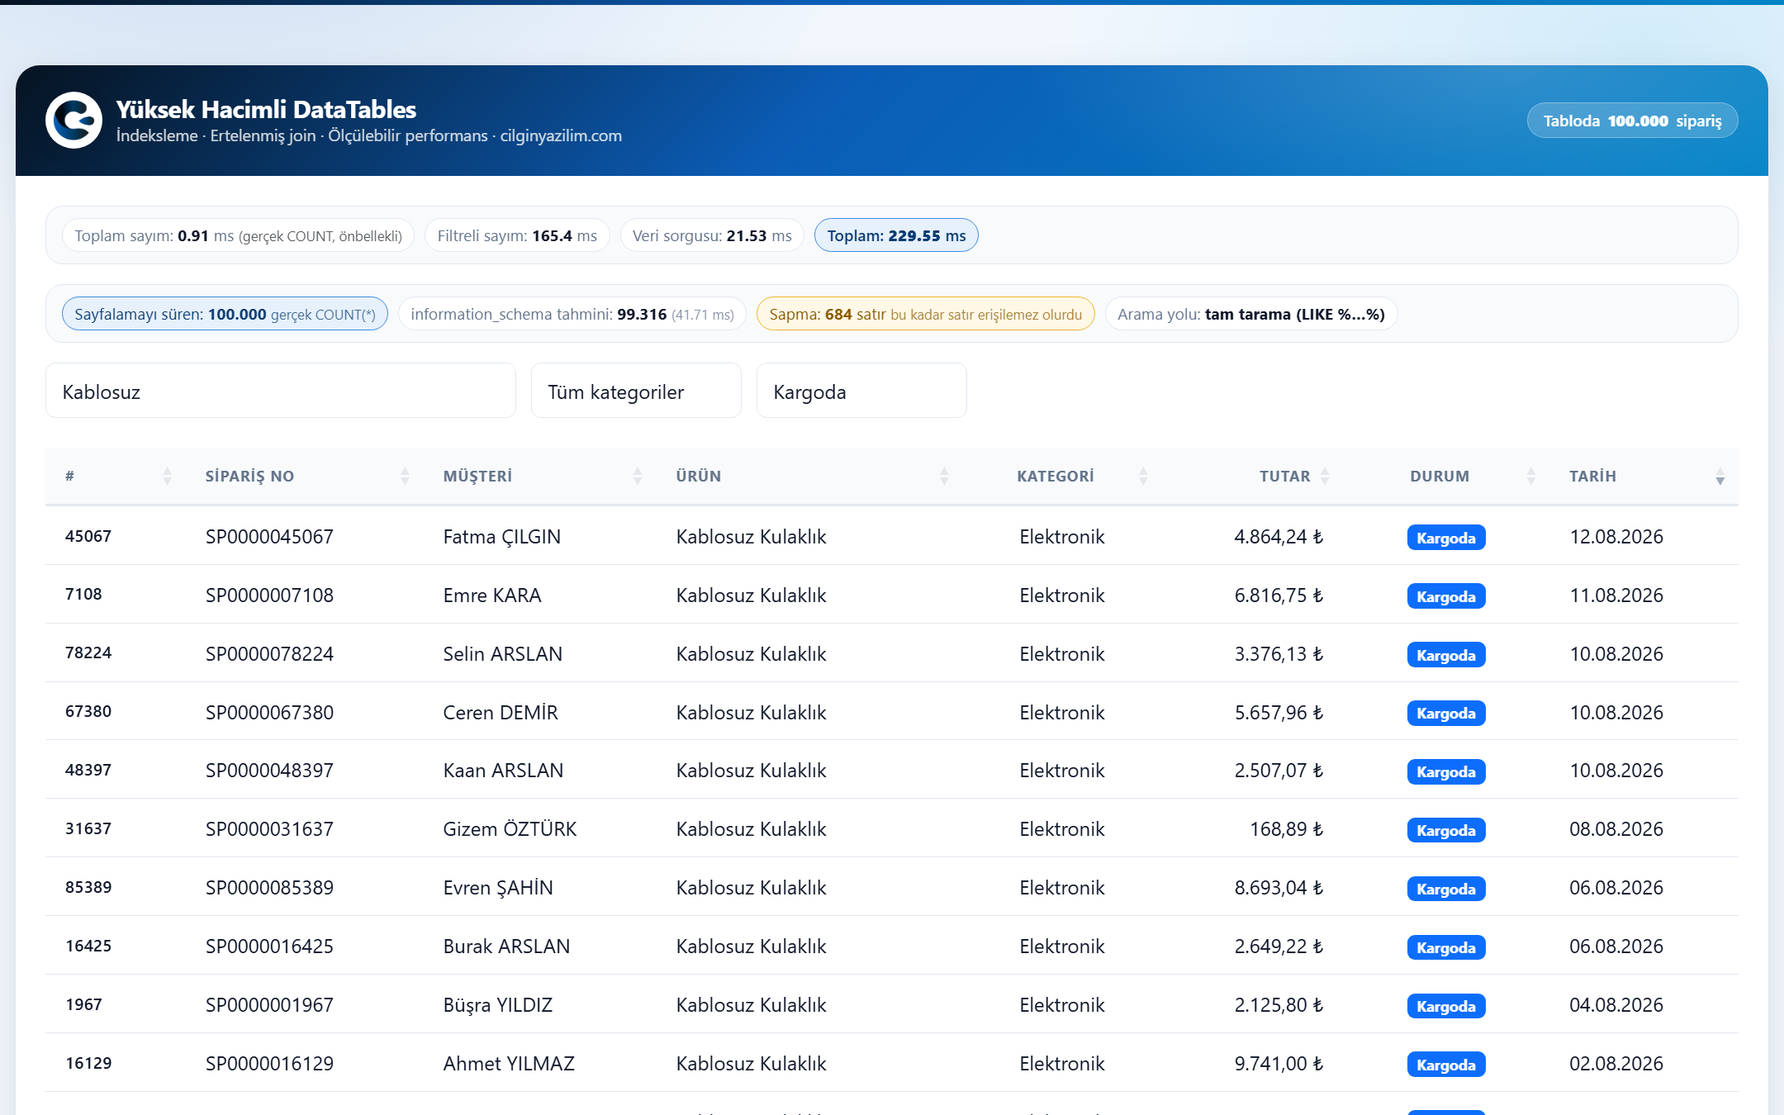
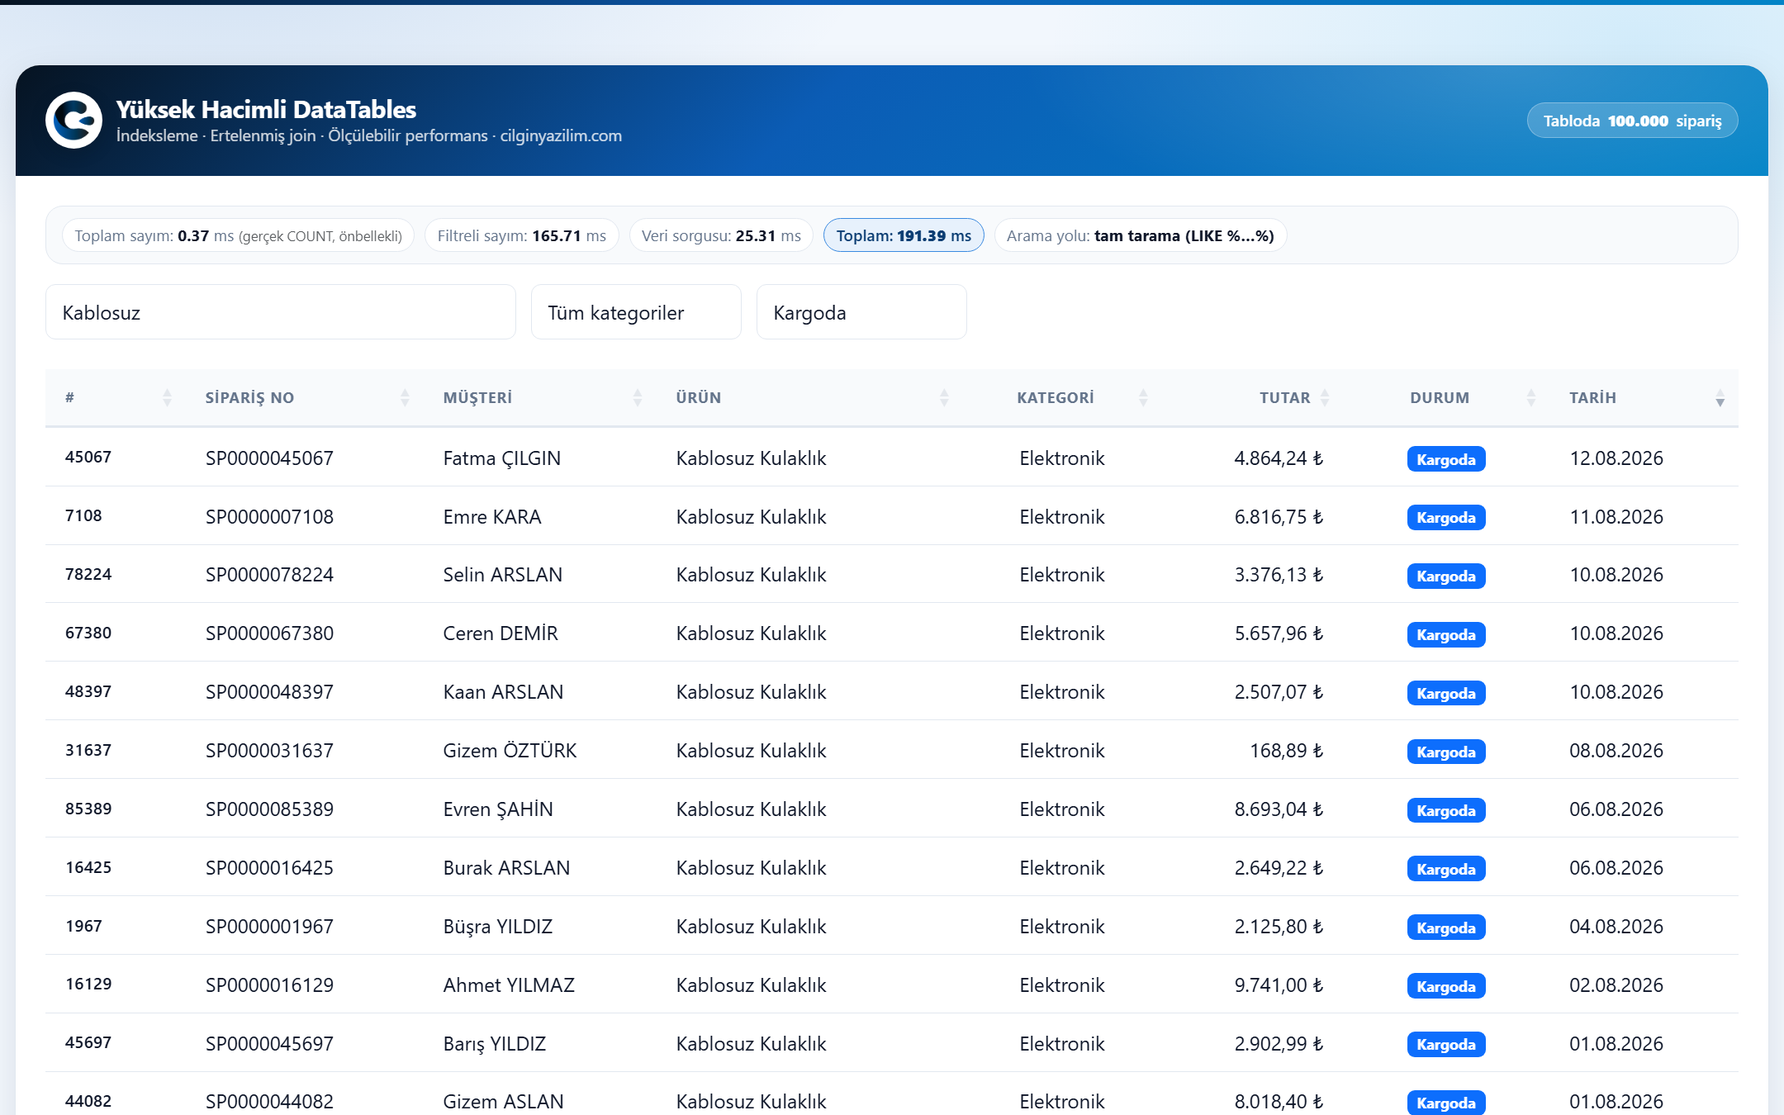
Karşılaştırma rozetini kaldır: her istekte hiçbir yerde okunmayan bir sayıyı yeniden çekmenin gerekçesi kalmamıştı
Önceki turda "sayfalamayı süren gerçek sayı" ile "information_schema
tahmini" arayüzde yan yana gösteriliyordu. Rozet kaldırılınca
estimate_total_rows() çağrısının da anlamı kalmadı: tahmin salt okunur
bir tabloda istekler arasında değişmiyor, yani her istekte yeniden
okumak (~0,8 ms) hiçbir yeni bilgi getirmiyordu.

- index.php: truth-bar bölümü ve $estimatedRows silindi.
- system/ajax.php: estimate_ms ölçümü, meta.estimated_total ve
  meta.estimate_drift kaldırıldı. Filtresiz sayfa artık ~1,5-2 ms
  (estimate sorgusu gitti).
- system/function.php: estimate_total_rows() fonksiyonu silindi;
  BÖLÜM 4 yorumu tahminin neden sayfalamada KULLANILAMAYACAĞININ
  kalıcı kaydı olarak kaldı (aynı hataya bir daha düşülmesin diye).
- assets/js/table.js, style.css: truth-bar DOM/CSS'i kaldırıldı;
  "arama yolu" rozeti mevcut performans çubuğuna taşındı.
- README.md / README.en.md: Karar 1 bölümü ve API sözleşmesi örneği
  güncellendi; ekran görüntüleri yeniden alındı.

Regresyon: sayfalama doğruluğu, arama yolu yönlendirmesi (exact/
prefix/scan) ve tüm önceki testler tekrar çalıştırıldı, hepsi geçti.

diff --git a/assets/css/style.css b/assets/css/style.css
@@ -53,57 +53,6 @@
 
 
 /* ==================================================================
- *  GERÇEK SAYIM / TAHMİN KARŞILAŞTIRMA ROZETİ
- * ------------------------------------------------------------------
- *  Bu deponun asıl konusu burada görünür hâle gelir: soldaki sayı
- *  SAYFALAMAYI SÜRER (gerçek COUNT(*)), sağdaki information_schema
- *  tahminidir ve hiçbir yerde kullanılmaz. Sapma vurgulanır, çünkü
- *  eski kodda o fark kadar satır ERİŞİLEMEZ durumdaydı.
- * ================================================================== */
-.cy-truth-bar {
-    display: flex;
-    flex-wrap: wrap;
-    gap: .5rem;
-    padding: .6rem .8rem;
-    background: var(--cy-surface-soft);
-    border: 1px solid var(--cy-border);
-    border-radius: var(--cy-radius);
-    font-size: .8rem;
-    color: var(--cy-text-muted);
-}
-
-.cy-truth-bar__item {
-    padding: .2rem .6rem;
-    border-radius: 999px;
-    background: var(--cy-surface);
-    border: 1px solid var(--cy-border);
-}
-
-.cy-truth-bar__item strong {
-    color: var(--cy-text);
-    font-variant-numeric: tabular-nums;
-}
-
-.cy-truth-bar__item small { opacity: .75; }
-
-.cy-truth-bar__item--real {
-    background: var(--cy-brand-100);
-    border-color: var(--cy-brand-400);
-    color: var(--cy-brand-700);
-}
-
-.cy-truth-bar__item--real strong { color: var(--cy-brand-700); }
-
-.cy-truth-bar__item--drift {
-    border-color: #f0b429;
-    background: #fff8e6;
-    color: #8a5a00;
-}
-
-.cy-truth-bar__item--drift strong { color: #8a5a00; }
-
-
-/* ==================================================================
  *  ARAÇ ÇUBUĞU
  * ================================================================== */
 .cy-toolbar {

diff --git a/assets/js/table.js b/assets/js/table.js
@@ -44,7 +44,7 @@ var CyPerfTable = (function ($) {
         return Number(n).toLocaleString('tr-TR');
     }
 
-    /** Sunucudan gelen ölçümleri üstteki iki rozete yazar. */
+    /** Sunucudan gelen ölçümleri performans rozetine yazar. */
     function updateBadges(json) {
         if (!json) { return; }
 
@@ -56,23 +56,13 @@ var CyPerfTable = (function ($) {
         setText('perf_data', t.data_query_ms);
         setText('perf_total', t.total_ms);
 
-        /* Öğretici rozet: sayfalamayı süren GERÇEK sayı ile
-         * information_schema TAHMİNİ yan yana. Aradaki fark, "tahmin
-         * neden sayfalamaya giremez"in canlı kanıtıdır — filtresiz
-         * görünümde bu kadar satır ERİŞİLEMEZ olurdu. */
-        if (m.estimated_total !== undefined) {
-            setText('truth_real', formatTr(json.recordsTotal));
-            setText('truth_estimate', formatTr(m.estimated_total));
-            setText('truth_estimate_ms', t.estimate_ms);
-            setText('truth_drift', formatTr(m.estimate_drift));
-        }
-
-        // Hangi arama yolunun seçildiği: maliyet gizlenmesin.
-        var wrap = document.getElementById('truth_search_wrap');
+        // Hangi arama yolunun seçildiği: maliyet gizlenmesin (bkz.
+        // classify_search(), system/function.php).
+        var wrap = document.getElementById('perf_search_wrap');
 
         if (wrap) {
             if (m.search_mode && m.search_mode !== 'none') {
-                setText('truth_search', m.search_label);
+                setText('perf_search', m.search_label);
                 wrap.hidden = false;
             } else {
                 wrap.hidden = true;

diff --git a/index.php b/index.php
@@ -23,11 +23,8 @@ security_headers($scriptNonce);
 $csrfToken = csrf_token();
 
 /* İlk ekran için GERÇEK sayı kullanılır — sayfalamayı süren sayı da
- * budur (bkz. count_cached(), system/function.php). Tahmin, yanındaki
- * karşılaştırma rozetinde ayrıca gösterilir: bu deponun konusu iki
- * yaklaşım arasındaki farkı GÖRÜNÜR kılmaktır. */
-$totalRows     = count_cached($db, 'orders|all', 'SELECT COUNT(*) FROM orders', [], COUNT_CACHE_TTL)['count'];
-$estimatedRows = estimate_total_rows($db);
+ * budur (bkz. count_cached(), system/function.php). */
+$totalRows = count_cached($db, 'orders|all', 'SELECT COUNT(*) FROM orders', [], COUNT_CACHE_TTL)['count'];
 ?>
 <!DOCTYPE html>
 <html lang="tr">
@@ -104,30 +101,8 @@ $estimatedRows = estimate_total_rows($db);
                     <span class="cy-perf-bar__item cy-perf-bar__item--total">
                         Toplam: <strong id="perf_total">-</strong> ms
                     </span>
-                </div>
-
-                <!-- ---------- Öğretici rozet: iki sayım yan yana ----------
-                     Bu deponun asıl konusu burada görünür hâle gelir.
-                     Soldaki sayı SAYFALAMAYI SÜRER (gerçek COUNT(*),
-                     önbellekli); sağdaki information_schema'dan okunan
-                     TAHMİNDİR ve hiçbir yerde kullanılmaz. Aradaki
-                     sapmayı canlı görmek, "tahmin neden sayfalamaya
-                     giremez" sorusunu tek bakışta cevaplar. -->
-                <div class="cy-truth-bar mb-3">
-                    <span class="cy-truth-bar__item cy-truth-bar__item--real">
-                        Sayfalamayı süren: <strong id="truth_real"><?= number_format($totalRows, 0, ',', '.') ?></strong>
-                        <small>gerçek COUNT(*)</small>
-                    </span>
-                    <span class="cy-truth-bar__item">
-                        information_schema tahmini: <strong id="truth_estimate"><?= number_format($estimatedRows, 0, ',', '.') ?></strong>
-                        <small>(<span id="truth_estimate_ms">-</span> ms)</small>
-                    </span>
-                    <span class="cy-truth-bar__item cy-truth-bar__item--drift">
-                        Sapma: <strong id="truth_drift"><?= number_format($totalRows - $estimatedRows, 0, ',', '.') ?></strong> satır
-                        <small>bu kadar satır erişilemez olurdu</small>
-                    </span>
-                    <span class="cy-truth-bar__item" id="truth_search_wrap" hidden>
-                        Arama yolu: <strong id="truth_search">-</strong>
+                    <span class="cy-perf-bar__item" id="perf_search_wrap" hidden>
+                        Arama yolu: <strong id="perf_search">-</strong>
                     </span>
                 </div>
 

diff --git a/system/ajax.php b/system/ajax.php
@@ -37,9 +37,10 @@ try {
  *  DÖRT PERFORMANS TEKNİĞİ BİR ARADA:
  *
  *    1. SAYIM: GERÇEK COUNT(*) — ama dosyada önbelleğe alınmış
- *       (47 ms → 0,12 ms). Sayfalama artık TAHMİNE değil, kesin bir
- *       sayıya dayanıyor; tahmin yalnızca karşılaştırma amacıyla
- *       yanıta ekleniyor (bkz. count_cached(), function.php).
+ *       (47 ms → 0,12 ms). Sayfalama artık information_schema
+ *       TAHMİNİNE değil, kesin bir sayıya dayanıyor (bkz.
+ *       count_cached(), function.php) — bu deponun en önemli
+ *       düzeltmesi, eski hatanın hikâyesi için bkz. BÖLÜM 4.
  *    2. ARAMA YÖNLENDİRME: sipariş numarası tam/önek eşleşmesi
  *       indeksli hızlı yola gider (429 ms → 1 ms); genel metin
  *       araması bilinçli olarak tam tarama kalır ve öyle etiketlenir
@@ -154,16 +155,6 @@ function handle_list(PDO $db): void
     $recordsTotal = $total['count'];
     $timings['count_total_ms'] = round((microtime(true) - $t0) * 1000, 2);
 
-    /* Tahmini sayım — SAYFALAMADA KULLANILMAZ, yalnızca rozette
-     * gerçek sayının yanında gösterilir. Süresi ayrıca ölçülür ki
-     * "taramasız tahmin gerçekten ucuz mu?" sorusu ekranda
-     * cevaplansın (ölçüldü: ~0,5 ms). Öğretici amaçla eklenmiş bu
-     * sorguyu üretimde çıkarmak isterseniz burası ve rozetteki
-     * karşılığı silinir; başka hiçbir yeri etkilemez. */
-    $t0 = microtime(true);
-    $estimatedTotal = estimate_total_rows($db);
-    $timings['estimate_ms'] = round((microtime(true) - $t0) * 1000, 2);
-
     /* --- 2) FİLTRELİ SAYIM ------------------------------------------
      * Filtre yoksa "filtrelenmiş" sayı zaten toplamla AYNIDIR;
      * ikinci bir COUNT(*) çalıştırmak tamamen gereksizdir. Bu
@@ -233,15 +224,12 @@ function handle_list(PDO $db): void
         'timings'         => $timings,
 
         /* Öğretici ek alanlar — DataTables bunları kullanmaz, ekrandaki
-         * rozet kullanır. Amaç: "hızlı ama yaklaşık" ile "kesin ama
-         * önbellekli" arasındaki farkı ve hangi arama yolunun
-         * seçildiğini GÖRÜNÜR kılmak. Bu deponun konusu tam olarak bu. */
+         * rozet kullanır. Amaç: hangi arama yolunun seçildiğini ve
+         * sayımın önbellekten mi geldiğini GÖRÜNÜR kılmak. */
         'meta' => [
-            'estimated_total' => $estimatedTotal,
-            'estimate_drift'  => $recordsTotal - $estimatedTotal,
-            'count_cached'    => $countCached,
-            'search_mode'     => $searchMode,
-            'search_label'    => $searchLabel,
+            'count_cached' => $countCached,
+            'search_mode'  => $searchMode,
+            'search_label' => $searchLabel,
         ],
     ]);
 }

diff --git a/system/function.php b/system/function.php
@@ -258,28 +258,16 @@ function rate_limit(string $bucket, int $limit, int $windowSeconds): void
  *  TABLE çalıştırmak sapmayı KAPATMADI, 310'dan 421'e ÇIKARDI.
  *  Tahmin doğası gereği yaklaşıktır; sayfalama ise KESİN bir sayı
  *  ister. İkisi aynı alana yazılamaz.
- * ================================================================== */
-
-/**
- * Tablodaki YAKLAŞIK satır sayısı — TABLOYU TARAMADAN.
  *
- * DİKKAT: Bu değer artık SAYFALAMADA KULLANILMIYOR. Yalnızca arayüzde
- * gerçek sayının YANINDA, karşılaştırma amacıyla gösteriliyor —
- * çünkü bu deponun konusu tam olarak budur: "hızlı ama yaklaşık" ile
- * "kesin ama pahalı" arasındaki farkı GÖRÜNÜR kılmak. Rozette iki
- * sayıyı yan yana görmek, bu dosyadaki uzun açıklamadan daha
- * öğreticidir.
- */
-function estimate_total_rows(PDO $db): int
-{
-    $stmt = $db->prepare(
-        'SELECT TABLE_ROWS FROM information_schema.TABLES
-          WHERE TABLE_SCHEMA = DATABASE() AND TABLE_NAME = "orders"'
-    );
-    $stmt->execute();
-
-    return (int) $stmt->fetchColumn();
-}
+ *  ÖNCEKİ SÜRÜMDE tahmin silinmemiş, gerçek sayının YANINDA
+ *  karşılaştırma rozeti olarak bırakılmıştı (information_schema
+ *  sorgusu her istekte ayrıca çalışıyordu, ~0,8 ms). O rozet arayüzden
+ *  kaldırıldı; artık kimsenin okumadığı bir sorguyu her istekte
+ *  çalıştırmanın gerekçesi kalmadığı için estimate_total_rows()
+ *  fonksiyonu da BU SÜRÜMDE SİLİNDİ. Yukarıdaki ölçüm, o hatanın ve
+ *  neden information_schema'ya güvenilemeyeceğinin kalıcı kaydıdır —
+ *  ayrıntılı gerekçe README'de duruyor.
+ * ================================================================== */
 
 function count_cache_dir(): string
 {

diff --git a/README.md b/README.md
@@ -17,7 +17,7 @@
 <img src="assets/images/screenshot.png" alt="100.000 satırlık tablo, üstünde sorgu süresi rozetiyle" width="900">
 </div>
 
-Yukarıdaki kare bu deponun tamamını özetler: tabloda **100.000 sipariş** var, sayfa **2,96 ms**'de geldi ve üstteki ikinci rozet, sayfalamayı süren **gerçek** sayının (100.000) `information_schema` **tahmininden** (99.316) **684 satır** farklı olduğunu canlı gösteriyor.
+Yukarıdaki kare bu deponun tamamını özetler: tabloda **100.000 sipariş** var ve sayfa **2,88 ms**'de geldi — rozetteki "100.000" da `information_schema` tahmini değil, sayfalamayı fiilen süren **gerçek** `COUNT(*)`'tır (bkz. [Karar 1](#karar-1--tahmini-sayım-mı-önbelleğe-alınmış-gerçek-sayım-mı)).
 
 Bu depo hem çalışan bir örnek hem de bir performans günlüğüdür: **buradaki her sayı ölçüldü**, hiçbiri tahmin değil.
 
@@ -112,15 +112,9 @@ Denendi. `ANALYZE TABLE orders` sonrası tahmin **99.579**'a düştü — yani f
 
 ### Verilen karar
 
-**Sayfalamayı süren sayı her zaman gerçek `COUNT(*)`'tır; maliyeti dosya önbelleği karşılar.** Tahmin silinmedi — arayüzde gerçek sayının **yanında**, karşılaştırma amacıyla gösteriliyor.
+**Sayfalamayı süren sayı her zaman gerçek `COUNT(*)`'tır; maliyeti dosya önbelleği karşılar.** `information_schema` tahmini artık uygulamanın hiçbir yerinde okunmuyor.
 
-Neden tamamen silmedik? Çünkü bu bir **öğretici** depo. Ekranda iki sayıyı yan yana ve aradaki sapmayı canlı görmek, bu README'nin tamamından daha ikna edici:
-
-```
-Sayfalamayı süren: 100.000 (gerçek COUNT(*))
-information_schema tahmini: 99.316 (0,78 ms)
-Sapma: 684 satır — bu kadar satır erişilemez olurdu
-```
+Bir ara sürümde tahmin silinmemiş, arayüzde gerçek sayının **yanında** karşılaştırma rozeti olarak bırakılmıştı — "iki sayıyı yan yana görmek öğreticidir" gerekçesiyle. Bu, geliştirme sürecinin dürüst bir parçası olduğu için burada da kayıtlı: rozet gösterdiği andan itibaren tahmin **sabitti** (aynı tabloda değişmiyordu), yani her istekte yeniden okumanın kazandırdığı hiçbir şey yoktu — yalnızca `information_schema` sorgusunun kendi maliyetini (~0,8 ms) ödüyorduk. Rozet arayüzden kaldırıldı, sorgu da onunla birlikte gitti; bu bölümdeki ölçümler ise **kalıcı bir uyarı** olarak kalıyor, çünkü aynı hataya bir dahaki sefere düşmemek için "neden information_schema'ya güvenilemez" bilgisinin bir yerde yazılı durması gerekiyor.
 
 ### Önbelleğin ödünleşmesi (gizlemiyoruz)
 
@@ -411,14 +405,11 @@ DataTables'ın standart sunucu taraflı parametrelerine ek olarak:
   "data": [[99695, "SP0000099695", "Taha YILDIRIM", "…"]],
   "timings": {
     "count_total_ms": 0.31,
-    "estimate_ms": 0.81,
     "count_filtered_ms": 0,
     "data_query_ms": 1.24,
-    "total_ms": 2.36
+    "total_ms": 1.55
   },
   "meta": {
-    "estimated_total": 99316,
-    "estimate_drift": 684,
     "count_cached": true,
     "search_mode": "scan",
     "search_label": "tam tarama (LIKE %…%)"
@@ -488,7 +479,7 @@ CREATE TABLE `orders` (
 
 ```
 datatable-performance/
-├── index.php                  ← Arayüz: performans rozeti + karşılaştırma rozeti + tablo
+├── index.php                  ← Arayüz: performans rozeti + tablo
 ├── cy_datatable.sql           ← Şema VE indeksler (veri YOK) + indeks gerekçeleri
 ├── seed.php                   ← CLI veri üretici (php seed.php [satır_sayısı])
 ├── .htaccess                  ← Dizin listeleme kapalı, .sql/.md engelli, güvenlik başlıkları
@@ -510,7 +501,6 @@ datatable-performance/
 | `handle_list()` | `ajax.php` | Tek uç nokta; parametreleri doğrular, `WHERE` kurar, süreleri ölçer |
 | `count_cached()` | `function.php` | **Gerçek** `COUNT(*)`, dosya önbellekli (47 ms → 0,12 ms) |
 | `count_cache_forget()` | `function.php` | Yazma sonrası önbelleği boşaltır (`seed.php` çağırır) |
-| `estimate_total_rows()` | `function.php` | `information_schema` tahmini — **yalnızca gösterim**, sayfalamada kullanılmaz |
 | `classify_search()` | `function.php` | Arama metnine bakıp exact / prefix / scan yolunu seçer |
 | `build_page_sql()` | `function.php` | Ertelenmiş join sorgusunu kurar |
 | `sort_keys()` | `function.php` | Sütun bazlı, indeksi bozmayan kararlı sıralama anahtarları |

diff --git a/README.en.md b/README.en.md
@@ -17,7 +17,7 @@ Indexing · Deferred join · Cached exact counts · **Measurable** performance
 <img src="assets/images/screenshot.png" alt="100,000-row table with a query-time badge above it" width="900">
 </div>
 
-That single frame sums up the whole repository: the table holds **100,000 orders**, the page rendered in **2.96 ms**, and the second badge shows live that the **real** count driving pagination (100,000) differs from the `information_schema` **estimate** (99,316) by **684 rows**.
+That single frame sums up the whole repository: the table holds **100,000 orders** and the page rendered in **2.88 ms** — the "100,000" in the badge isn't an `information_schema` estimate either, it's the **real** `COUNT(*)` that actually drives pagination (see [Decision 1](#decision-1--estimated-count-or-cached-exact-count)).
 
 This repo is both a working example and a performance log: **every number here was measured**, none estimated.
 
@@ -112,15 +112,9 @@ We tried it. After `ANALYZE TABLE orders` the estimate dropped to **99,579** —
 
 ### The decision we made
 
-**The number that drives pagination is always a real `COUNT(*)`; a file cache absorbs its cost.** The estimate was not deleted — it is displayed in the UI **next to** the real number, for comparison.
+**The number that drives pagination is always a real `COUNT(*)`; a file cache absorbs its cost.** The `information_schema` estimate is no longer read anywhere in the app.
 
-Why keep it? Because this is a **teaching** repository. Seeing both numbers side by side, with the live drift between them, is more convincing than this entire README:
-
-```
-Driving pagination: 100,000 (real COUNT(*))
-information_schema estimate: 99,316 (0.78 ms)
-Drift: 684 rows — that many rows would be unreachable
-```
+An intermediate version kept the estimate instead of deleting it — displayed in the UI **next to** the real number, on the reasoning that "seeing both numbers side by side is instructive." That's an honest part of the process worth recording here too: from the moment the badge existed, the estimate was **constant** (it doesn't change on an unchanged table), so re-reading it on every request bought nothing — we were just paying the `information_schema` query's own cost (~0.8 ms) over and over. The badge was removed from the UI and the query went with it; the measurements in this section remain as a **permanent warning**, because "why `information_schema` can't be trusted" is worth having written down somewhere so the same mistake isn't repeated.
 
 ### The cache's trade-off (we're not hiding it)
 
@@ -411,14 +405,11 @@ In addition to DataTables' standard server-side parameters:
   "data": [[99695, "SP0000099695", "Taha YILDIRIM", "…"]],
   "timings": {
     "count_total_ms": 0.31,
-    "estimate_ms": 0.81,
     "count_filtered_ms": 0,
     "data_query_ms": 1.24,
-    "total_ms": 2.36
+    "total_ms": 1.55
   },
   "meta": {
-    "estimated_total": 99316,
-    "estimate_drift": 684,
     "count_cached": true,
     "search_mode": "scan",
     "search_label": "full scan (LIKE %…%)"
@@ -488,7 +479,7 @@ CREATE TABLE `orders` (
 
 ```
 datatable-performance/
-├── index.php                  ← UI: performance badge + comparison badge + table
+├── index.php                  ← UI: performance badge + table
 ├── cy_datatable.sql           ← Schema AND indexes (no data) + index rationale
 ├── seed.php                   ← CLI data generator (php seed.php [row_count])
 ├── .htaccess                  ← No directory listing, .sql/.md denied, security headers
@@ -510,7 +501,6 @@ datatable-performance/
 | `handle_list()` | `ajax.php` | The single endpoint; validates params, builds `WHERE`, measures timings |
 | `count_cached()` | `function.php` | **Real** `COUNT(*)`, file-cached (47 ms → 0.12 ms) |
 | `count_cache_forget()` | `function.php` | Clears the cache after writes (`seed.php` calls it) |
-| `estimate_total_rows()` | `function.php` | `information_schema` estimate — **display only**, never drives pagination |
 | `classify_search()` | `function.php` | Picks the exact / prefix / scan path from the search text |
 | `build_page_sql()` | `function.php` | Builds the deferred-join query |
 | `sort_keys()` | `function.php` | Per-column stable sort keys that don't break the index |
